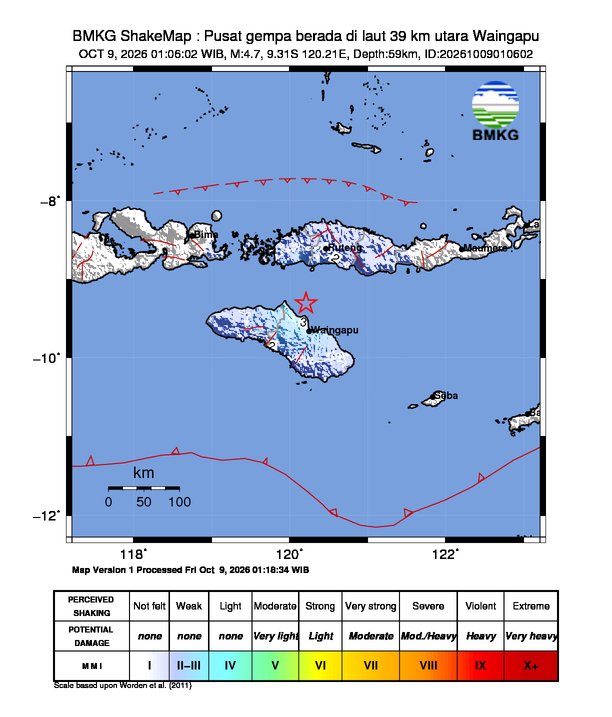
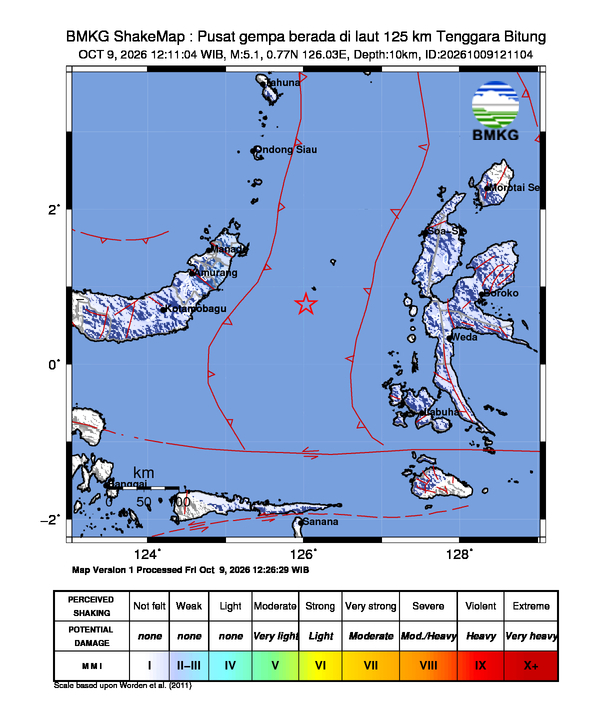
docs: update info gempa & README - 2026-10-09 16:08:08 WIB [skip ci]

diff --git a/README.md b/README.md
@@ -2,7 +2,7 @@
 
 > Monitor gempa bumi real-time untuk wilayah Indonesia. Data diambil otomatis dari **BMKG** setiap 5 menit oleh GitHub Actions, lalu ditampilkan lengkap di README ini beserta peta guncangannya (shakemap).
 
-🕒 **Update otomatis terakhir:** Jumat, 09 Oktober 2026 pukul 05.16.18
+🕒 **Update otomatis terakhir:** Jumat, 09 Oktober 2026 pukul 16.08.04
 
 ---
 
@@ -10,13 +10,13 @@
 
 | Parameter | Detail |
 | --- | --- |
-| 📊 **Magnitudo** | M 4.7 |
-| 📍 **Wilayah** | Pusat gempa berada di laut 39 km utara Waingapu |
-| 🕒 **Waktu** | 09 Okt 2026, 01:06:02 WIB |
-| 🧭 **Koordinat** | -9.31,120.21 |
-| 📏 **Kedalaman** | 59 km |
+| 📊 **Magnitudo** | M 5.1 |
+| 📍 **Wilayah** | Pusat gempa berada di laut 125 km Tenggara Bitung |
+| 🕒 **Waktu** | 09 Okt 2026, 12:11:04 WIB |
+| 🧭 **Koordinat** | 0.77,126.03 |
+| 📏 **Kedalaman** | 10 km |
 | 🌊 **Potensi** | Gempa ini dirasakan untuk diteruskan pada masyarakat |
-| 📡 **Dirasakan** | III Kab. Sumba Timur |
+| 📡 **Dirasakan** | III Tondano, III Bitung |
 | 🔗 **Sumber** | [BMKG — InfoGempa Realtime](https://www.bmkg.go.id/gempabumi) |
 
 ### 🗺 Peta Guncangan (Shakemap)
@@ -29,6 +29,7 @@
 
 | Waktu | Magnitudo | Wilayah | Kedalaman | Potensi |
 | --- | --- | --- | --- | --- |
+| 09 Okt 2026 12:11:04 WIB | **M 5.1** | Pusat gempa berada di laut 125 km Tenggara Bitung | 10 km | Gempa ini dirasakan untuk diteruskan pada masyarakat |
 | 09 Okt 2026 01:06:02 WIB | **M 4.7** | Pusat gempa berada di laut 39 km utara Waingapu | 59 km | Gempa ini dirasakan untuk diteruskan pada masyarakat |
 | 08 Okt 2026 22:23:47 WIB | **M 4.4** | Pusat gempa berada di laut 71 km Barat Bengkulu Utara | 10 km | Gempa ini dirasakan untuk diteruskan pada masyarakat |
 | 08 Okt 2026 15:07:56 WIB | **M 5.8** | Pusat gempa berada di laut 230 km barat laut Tahuna - Kep.Sangihe | 10 km | Gempa ini dirasakan untuk diteruskan pada masyarakat |
@@ -43,7 +44,6 @@
 | 05 Okt 2026 20:06:22 WIB | **M 3.8** | Pusat gempa berada di darat 42 km timur laut Ruteng, Manggarai | 8 km | Gempa ini dirasakan untuk diteruskan pada masyarakat |
 | 05 Okt 2026 09:16:32 WIB | **M 4.6** | Pusat gempa berada di laut 112 km selatan Lumajang | 4 km | Gempa ini dirasakan untuk diteruskan pada masyarakat |
 | 05 Okt 2026 06:19:11 WIB | **M 3.9** | Pusat gempa berada di laut 6 Km selatan Kodi, Sumba Barat Daya | 14 km | Gempa ini dirasakan untuk diteruskan pada masyarakat |
-| 04 Okt 2026 21:59:43 WIB | **M 4.8** | Pusat gempa berada di laut 13 km Selatan Kodi-Sumba Barat Daya | 21 km | Gempa ini dirasakan untuk diteruskan pada masyarakat |
 
 ---
 
